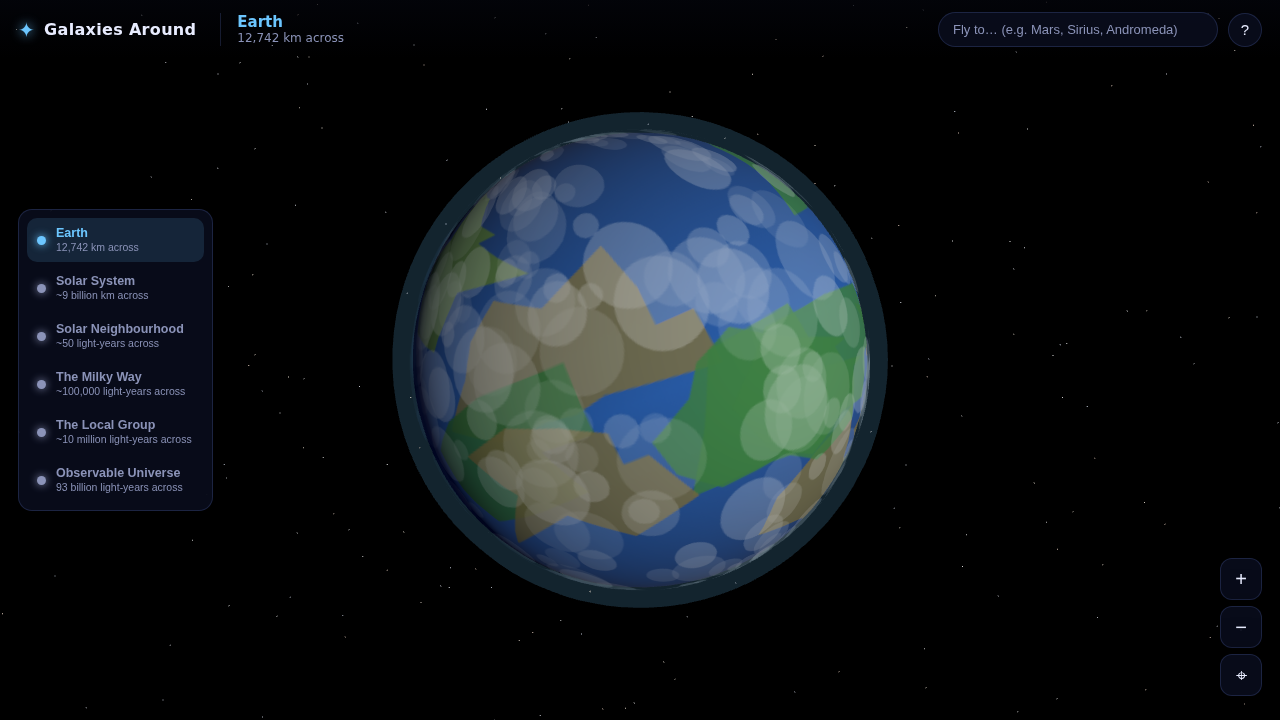
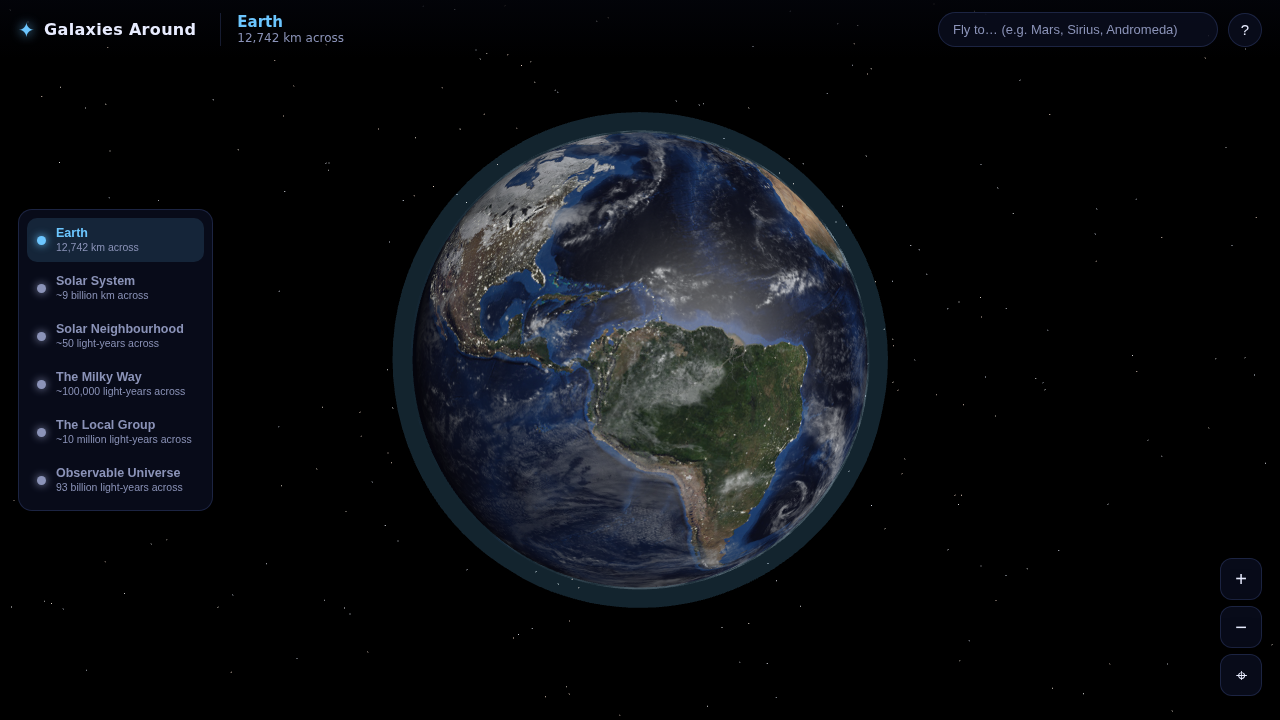
Make Earth photorealistic with real NASA imagery; fix zoom-through bug
- Earth now renders with NASA Blue Marble maps (vendored, offline):
  4K day map, normal map for terrain relief, specular map for glinting
  oceans, a real cloud layer, and night-side city lights (ambient light
  lowered so the dark side actually glows). The Moon uses its real map
  too. Procedural canvas textures remain as automatic fallbacks.
- Gas-giant bands switched from hard-edged rectangles to smooth
  multi-stop gradients with subtle storm-belt streaks.
- Camera fix: zooming in used to pass through Earth's surface (camera
  min distance was below the planet radius, making it vanish). The
  camera is now clamped just above the focused object's surface, and
  zoom-in scale transitions only trigger when focused on the level's
  centre — so wheeling into a clicked planet lands on it instead of
  jumping scales.
- README: new real-Earth screenshots, surface-zoom shot, texture credits.

https://claude.ai/code/session_01BD7jrAkQj3w9VVJkQsUSZL

Changed region(s): [[0.3125, 0.1833, 0.6875, 0.825]]

diff --git a/js/engine/objects.js b/js/engine/objects.js
@@ -5,30 +5,68 @@ import {
   sunTexture, galaxySprite, glowSprite, ringTexture,
 } from './textures.js';
 
+// ---------- Real NASA imagery (with procedural fallback) ----------
+// Earth & Moon use NASA Blue Marble / Visible Earth derived maps vendored
+// in assets/textures/planets. If a map fails to load (e.g. file moved),
+// the procedural canvas texture takes over so the app never breaks.
+const TEX_BASE = './assets/textures/planets/';
+const texLoader = new THREE.TextureLoader();
+
+function realMap(file, { srgb = true, onFail } = {}) {
+  const tex = texLoader.load(TEX_BASE + file, undefined, undefined, () => onFail && onFail());
+  if (srgb) tex.colorSpace = THREE.SRGBColorSpace;
+  tex.anisotropy = 16;
+  return tex;
+}
+
+// Photorealistic Earth: 4K day map + terrain relief + glinting oceans +
+// real cloud layer + night-side city lights.
+function makeRealEarth(data, radius) {
+  const mat = new THREE.MeshPhongMaterial({
+    specular: new THREE.Color(0x444444),
+    shininess: 22,
+    emissive: new THREE.Color(0xffffff),
+    emissiveIntensity: 0.65,
+  });
+  mat.map = realMap('earth_atmos_4096.jpg', {
+    onFail: () => { mat.map = earthTexture(); mat.normalMap = mat.specularMap = mat.emissiveMap = null; mat.needsUpdate = true; },
+  });
+  mat.normalMap = realMap('earth_normal_2048.jpg', { srgb: false });
+  mat.normalScale = new THREE.Vector2(0.85, 0.85);
+  mat.specularMap = realMap('earth_specular_2048.jpg', { srgb: false });
+  mat.emissiveMap = realMap('earth_lights_2048.png');
+
+  const mesh = new THREE.Mesh(new THREE.SphereGeometry(radius, 96, 96), mat);
+  mesh.rotation.z = THREE.MathUtils.degToRad(data.axialTilt || 0);
+
+  const cloudMat = new THREE.MeshLambertMaterial({ transparent: true, depthWrite: false });
+  cloudMat.map = realMap('earth_clouds_2048.png', {
+    onFail: () => { cloudMat.map = cloudTexture(); cloudMat.opacity = 0.55; cloudMat.needsUpdate = true; },
+  });
+  const clouds = new THREE.Mesh(new THREE.SphereGeometry(radius * 1.008, 96, 96), cloudMat);
+  clouds.name = 'clouds';
+  mesh.add(clouds);
+  mesh.add(atmosphere(radius, 0x6cc6ff));
+  return mesh;
+}
+
 // A solid celestial body (planet / moon). `data` drives which texture to use.
 export function makeBody(data, radius) {
-  const geo = new THREE.SphereGeometry(radius, 48, 48);
-  let map;
-  if (data.id === 'earth') map = earthTexture();
-  else if (data.banded || data.id === 'uranus' || data.id === 'neptune') map = gasGiantTexture(data);
-  else map = rockyTexture(data);
+  if (data.id === 'earth') return makeRealEarth(data, radius);
 
-  const mat = new THREE.MeshStandardMaterial({
-    map, roughness: 0.9, metalness: 0.0,
-  });
+  const geo = new THREE.SphereGeometry(radius, 64, 64);
+  const mat = new THREE.MeshStandardMaterial({ roughness: 0.95, metalness: 0.0 });
+  if (data.id === 'moon') {
+    mat.map = realMap('moon_1024.jpg', {
+      onFail: () => { mat.map = rockyTexture(data); mat.needsUpdate = true; },
+    });
+  } else if (data.banded || data.id === 'uranus' || data.id === 'neptune') {
+    mat.map = gasGiantTexture(data);
+  } else {
+    mat.map = rockyTexture(data);
+  }
   const mesh = new THREE.Mesh(geo, mat);
   mesh.rotation.z = THREE.MathUtils.degToRad((data.axialTilt || 0) % 180);
-
-  // Earth gets a cloud shell + atmosphere glow.
-  if (data.id === 'earth') {
-    const clouds = new THREE.Mesh(
-      new THREE.SphereGeometry(radius * 1.012, 48, 48),
-      new THREE.MeshStandardMaterial({ map: cloudTexture(), transparent: true, opacity: 0.55, depthWrite: false })
-    );
-    clouds.name = 'clouds';
-    mesh.add(clouds);
-    mesh.add(atmosphere(radius, 0x6cc6ff));
-  }
   if (data.rings) mesh.add(makeRings(data, radius));
   return mesh;
 }

diff --git a/js/engine/textures.js b/js/engine/textures.js
@@ -131,17 +131,28 @@ export function gasGiantTexture(body) {
     const c = makeCanvas(w, h);
     const ctx = c.getContext('2d');
     const base = new THREE.Color(body.color);
-    let y = 0;
-    while (y < h) {
-      const band = 8 + Math.random() * 34;
-      const l = (Math.random() - 0.5) * 0.22;
-      const col = base.clone(); col.offsetHSL(0, 0, l);
-      ctx.fillStyle = hex(col.getHex());
-      ctx.fillRect(0, y, w, band + 1);
-      y += band;
+    // smooth latitude bands: a vertical gradient with many soft stops
+    const grad = ctx.createLinearGradient(0, 0, 0, h);
+    let stop = 0;
+    while (stop < 1) {
+      const l = (Math.random() - 0.5) * 0.2;
+      const col = base.clone(); col.offsetHSL(0, (Math.random() - 0.5) * 0.04, l);
+      grad.addColorStop(Math.min(stop, 1), hex(col.getHex()));
+      stop += 0.02 + Math.random() * 0.07;
     }
-    // soften with horizontal swirl streaks
-    splatter(ctx, w, h, shade(body.color, 0.08), 400, 3, 10, 0.25);
+    grad.addColorStop(1, hex(base.getHex()));
+    ctx.fillStyle = grad;
+    ctx.fillRect(0, 0, w, h);
+    // faint horizontal streaks for storm-belt turbulence
+    for (let i = 0; i < 260; i++) {
+      const y = Math.random() * h;
+      const x = Math.random() * w;
+      const len = 30 + Math.random() * 180;
+      ctx.globalAlpha = 0.05 + Math.random() * 0.08;
+      ctx.fillStyle = shade(body.color, (Math.random() - 0.5) * 0.25);
+      ctx.fillRect(x, y, len, 1 + Math.random() * 3);
+    }
+    ctx.globalAlpha = 1;
     // Jupiter's Great Red Spot
     if (body.id === 'jupiter') {
       ctx.globalAlpha = 0.85;

diff --git a/js/main.js b/js/main.js
@@ -68,7 +68,8 @@ function frameLevel(lvl, entryDist) {
   controls.target.copy(lvl.bounds.target);
   const dir = lvl.bounds.viewDir.clone().normalize();
   camera.position.copy(lvl.bounds.target).addScaledVector(dir, entryDist);
-  controls.minDistance = lvl.bounds.minDist * 0.5;
+  // keep the camera just outside the central body's surface
+  controls.minDistance = lvl.bounds.minDist * 0.9;
   controls.maxDistance = lvl.bounds.maxDist;
   controls.update();
 }
@@ -104,11 +105,13 @@ function flyTo(object, radius, factor = 3.2) {
   tmp.copy(camera.position).sub(controls.target);
   if (tmp.lengthSq() < 1e-6) tmp.copy(levels[current].bounds.viewDir);
   tmp.normalize();
-  const dist = Math.max(radius * factor, levels[current].bounds.minDist * 0.6);
+  const dist = radius * factor;
   fly.toPos.copy(fly.toTgt).addScaledVector(tmp, dist);
   fly.fromPos.copy(camera.position);
   fly.fromTgt.copy(controls.target);
   fly.t = 0; fly.active = true;
+  // let the camera wheel right down to (but never through) this object's surface
+  controls.minDistance = Math.max(radius * 1.05, 1e-3);
 }
 
 function updateFly(dt) {
@@ -209,6 +212,9 @@ function maybeTransition(zoomingOut) {
     transitionLock = performance.now() + 700;
     enterLevel(current + 1, 'fromInner');
   } else if (!zoomingOut && dist <= lvl.bounds.minDist + 1e-3 && current > 0) {
+    // only dive to the inner scale when focused on the level's own centre —
+    // when orbiting a clicked planet, zooming in just approaches its surface
+    if (controls.target.distanceTo(lvl.bounds.target) > lvl.bounds.minDist * 0.5) return;
     transitionLock = performance.now() + 700;
     enterLevel(current - 1, 'fromOuter');
   }

diff --git a/js/levels/earth.js b/js/levels/earth.js
@@ -8,11 +8,12 @@ export function createEarthLevel() {
   const group = new THREE.Group();
   const earthData = PLANETS.find((p) => p.id === 'earth');
 
-  // soft sunlight from one side
-  const sun = new THREE.DirectionalLight(0xffffff, 2.4);
+  // sunlight from one side; ambient kept low so the night side stays dark
+  // and the real city-lights map can glow against it
+  const sun = new THREE.DirectionalLight(0xffffff, 2.6);
   sun.position.set(8, 3, 6);
   group.add(sun);
-  group.add(new THREE.AmbientLight(0x223355, 1.1));
+  group.add(new THREE.AmbientLight(0x223355, 0.35));
 
   const earth = makeBody(earthData, 1);
   pickable(earth, { ...earthData, hasSurface: true }, 1, { spinSpeed: 0.06 });

diff --git a/README.md b/README.md
@@ -46,7 +46,7 @@ No installation, no build step, **no internet required** — Three.js is vendore
 - 🛰️ **Zoom to the surface** — drop down onto planetary surfaces, or dive *inside* the Milky Way and the Local Group.
 - 🔭 **Smart zoom** — scroll/pinch to zoom in and out; cross a scale boundary and you're carried to the next level automatically.
 - 🧭 **Scale ladder + search** — jump straight to any scale, or type a name ("Mars", "Sirius", "Andromeda") to fly there instantly.
-- 🌍 **Procedural & offline** — textured Earth with clouds & atmosphere, banded gas giants, ringed Saturn, a glowing Sun, spiral-arm galaxies and a clustered cosmic web — all generated on a `<canvas>`, no external assets.
+- 🌍 **Photorealistic Earth & Moon** — real NASA Blue Marble imagery with terrain relief, glinting oceans, a live cloud layer and city lights glowing on the night side. Gas giants, the Sun, galaxies and the cosmic web are generated procedurally — everything ships with the repo and works offline.
 - ⚡ **Zero build, zero dependencies to install** — just open it in a modern browser.
 
 <div align="center">
@@ -54,6 +54,10 @@ No installation, no build step, **no internet required** — Three.js is vendore
 ![Info panel](docs/screenshots/info-panel.png)
 
 *Click any body for a NASA-sourced fact sheet — and a button to zoom onto its surface.*
+
+![Earth surface](docs/screenshots/earth-surface.png)
+
+*Zoom all the way down: real NASA satellite imagery, right to the coastline.*
 
 </div>
 
@@ -134,6 +138,7 @@ All figures are drawn from public NASA / JPL resources, including:
 - [NASA Planetary Fact Sheets (NSSDC)](https://nssdc.gsfc.nasa.gov/planetary/factsheet/)
 - [NASA Science — Solar System & Universe](https://science.nasa.gov/)
 - [NASA / ESA imagery and the Gaia stellar catalogue](https://science.nasa.gov/mission/hubble/)
+- Earth & Moon texture maps: NASA Blue Marble / Visible Earth, via the MIT-licensed [three.js examples](https://github.com/mrdoob/three.js/tree/master/examples/textures/planets) (vendored in `assets/textures/planets/`)
 
 > **A note on scale:** the *real* universe is overwhelmingly empty space. Distances and sizes are gently compressed so that everything stays visible and explorable — the facts in every panel, however, are real.
 